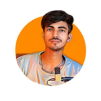
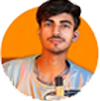
feature and fix: new animations and aayush pandey img profile fixed

diff --git a/src/index.css b/src/index.css
@@ -23,7 +23,6 @@
   border-radius: 3px;
 }
 
-
 ::-webkit-scrollbar-corner {
   background-color: #65cfa9;
 }
@@ -45,4 +44,56 @@
     position: relative;
     overflow: hidden;
   }
+}
+
+@keyframes move {
+  0%,
+  100% {
+    transform: translateY(0px) scale(1);
+  }
+  50% {
+    transform: translateY(300px) scale(0.8);
+  }
+}
+
+@keyframes rebote {
+  0%,
+  100% {
+    transform: translateY(0px) scale(1);
+  }
+  50% {
+    transform: translateY(30px) scale(0.8);
+  }
+}
+@keyframes rebote2 {
+  0%,
+  100% {
+    transform: translateY(0px) scale(1);
+  }
+  50% {
+    transform: translateY(30px) scale(0.8);
+  }
+}
+
+.green1 {
+  /* display: none; */
+  animation: move 15s linear infinite;
+}
+.green2 {
+  animation: rebote 15s linear infinite;
+  filter: drop-shadow(6px 6px 6px rgba(0, 0, 0, 0.108));
+}
+.green3 {
+  animation: rebote2 10s linear infinite;
+  filter: drop-shadow(6px 6px 6px rgba(0, 0, 0, 0.108));
+}
+
+.circle1,
+.circle2 {
+  animation: move 15s linear infinite;
+}
+
+.circle1_meet,
+.circle2_meet {
+  animation: move 15s linear infinite;
 }

diff --git a/src/components/meet/meet.css b/src/components/meet/meet.css
@@ -2,12 +2,15 @@
   width: 100%;
   padding: 5%;
   padding-top: 74px;
-  padding-bottom: 74px;
+  padding-bottom: 174px;
+  margin-bottom: -120px;
   /* background: red; */
   display: flex;
   justify-content: center;
   align-items: center;
   flex-direction: column;
+  position: relative;
+  overflow: hidden;
 }
 
 .contentCards {
@@ -25,6 +28,12 @@
   text-align: center;
   display: flex;
   padding: 3% 0%;
+  transition-duration: 0.2s;
+  cursor: pointer;
+}
+.card:hover {
+  transform: scale(1.05);
+  transition-duration: 0.2s;
 }
 .text1 {
   font-family: "Raleway";
@@ -59,4 +68,28 @@
   border-radius: 100%;
   color: white;
   padding: 2%;
+}
+
+.circle1_meet {
+  width: 400px;
+  height: 400px;
+  background: #4b83fbcc;
+  position: absolute;
+  border-radius: 100%;
+  right: -300px;
+  bottom: -150px;
+  filter: blur(90px);
+  z-index: -10;
+}
+
+.circle2_meet {
+  width: 400px;
+  height: 400px;
+  background: #4b83fbcc;
+  position: absolute;
+  border-radius: 100%;
+  top: -100px;
+  left: -300px;
+  filter: blur(90px);
+  z-index: -10;
 }

diff --git a/src/App.jsx b/src/App.jsx
@@ -22,7 +22,7 @@ function App() {
       <div className="bodyInterno">
         <div className="max-w-[940px] h-full">
           <GreenCircle
-            className="green1"
+            classText="green1"
             mT="-200px"
             mR=""
             mB=""
@@ -30,10 +30,11 @@ function App() {
             blur="blur(90px)"
             ancho="400px"
             alto="400px"
-            color="#65CFA9"
+            color="#4B83FBCC"
           />
           {/* bg-gradient-to-t from-[#65CFA9] to-[#FFFFFF99] */}
           <GreenCircle
+            classText="green2"
             mT="123.99px"
             mR=""
             mB=""
@@ -43,6 +44,7 @@ function App() {
             color="#65CFA9"
           />
           <GreenCircle
+            classText="green3"
             mT="88.54px"
             mR=""
             mB=""

diff --git a/src/components/lifeBetter/lifeBetter.css b/src/components/lifeBetter/lifeBetter.css
@@ -3,6 +3,8 @@
   width: 100%;
   /* background: red; */
   padding: 5%;
+  position: relative;
+  /* overflow: hidden; */
 }
 
 .left {
@@ -110,4 +112,28 @@
   font-weight: 400;
   line-height: 16.79px;
   color: #415674;
+}
+
+.circle1 {
+  width: 400px;
+  height: 400px;
+  background: #4b83fbcc;
+  position: absolute;
+  border-radius: 100%;
+  right: -300px;
+  margin-top: -150px;
+  filter: blur(90px);
+  z-index: -10;
+}
+
+.circle2 {
+  width: 400px;
+  height: 400px;
+  background: #4b83fbcc;
+  position: absolute;
+  border-radius: 100%;
+  left: -300px;
+  bottom: -100px;
+  filter: blur(90px);
+  z-index: -10;
 }

diff --git a/src/components/lifeBetter/LifeBetter.jsx b/src/components/lifeBetter/LifeBetter.jsx
@@ -4,10 +4,14 @@ import l1 from "../../assets/img/lifeBetter/lifeBetter1.png";
 import l2 from "../../assets/img/lifeBetter/lifeBetter2.png";
 import b1 from "../../assets/img/lifeBetter/badge1.png";
 import b2 from "../../assets/img/lifeBetter/badge2.png";
+import { GreenCircle } from "../GreenCircle";
 
 export const LifeBetter = () => {
   return (
     <div className="contentLife">
+      <div className="circle1"></div>
+      <div className="circle2"></div>
+
       <div className="left">
         <img className="img1" src={l1} alt={l1} srcset={l1} />
         <img className="img2" src={l2} alt={l2} srcset={l2} />

diff --git a/src/components/meet/Meet.jsx b/src/components/meet/Meet.jsx
@@ -12,7 +12,13 @@ import { Title } from "../title/Title";
 export const Meet = () => {
   return (
     <div className="contentMeet">
-      <Title text1={"Our Professionals"} text2={"Meet Our Professinoal Colleagues"}/>
+      <div className="circle1_meet"></div>
+      <div className="circle2_meet"></div>
+
+      <Title
+        text1={"Our Professionals"}
+        text2={"Meet Our Professinoal Colleagues"}
+      />
       <div className="contentCards">
         <Cards img={m1} text1={"Dr. Deepndra"} text2={"Advicer"} />
         <Cards img={m2} text1={"Kavi Chaturvedi"} text2={"Channel Manager"} />

diff --git a/src/components/header/header.css b/src/components/header/header.css
@@ -54,7 +54,8 @@ xl: Son para las pantallas muy grandes, que comienzan en 1280 px. 2xl: Este esti
 
 @media (max-width: 991px) {
   .navbar {
-    background: linear-gradient(to left, #ffffff, #beecdb);
+    /* background: linear-gradient(to left, #ffffff, #beecdb); */
+    background: transparent;
   }
   .navbar a {
     color: black;
@@ -79,7 +80,7 @@ xl: Son para las pantallas muy grandes, que comienzan en 1280 px. 2xl: Este esti
 }
 
 /* MOBILE 640px */
-@media (max-width: 724) {
+@media (max-width: 724px) {
   .navbar {
     background: linear-gradient(to left, #ffffff, #beecdb);
   }

diff --git a/src/components/GreenCircle.jsx b/src/components/GreenCircle.jsx
@@ -1,12 +1,23 @@
 import React from "react";
 
-export const GreenCircle = ({ ancho, alto, color, mT, mL, mB, mR, blur }) => {
+export const GreenCircle = ({
+  ancho,
+  alto,
+  color,
+  mT,
+  mL,
+  mB,
+  mR,
+  blur,
+  classText,
+}) => {
   //   return <div className={`w-[100px]` + "h-[100px] bg-red-400"}></div>;
   //   const ancho = "100px";
   //   const alto = "100px";
   //   console.log(ancho, alto);
   return (
     <div
+      className={classText}
       style={{
         borderRadius: "100%",
         width: ancho,

diff --git a/src/components/banners/banners.css b/src/components/banners/banners.css
@@ -9,3 +9,14 @@
   padding: 10%;
   padding-top: 40px;
 }
+.cardBanner {
+  transition-duration: 0.2s;
+  cursor: pointer;
+  /* border: 1px solid rgba(255, 255, 255, 0.149); */
+}
+.cardBanner:hover {
+  transform: scale(1.05);
+  transition-duration: 0.2s;
+  /* border: 1px solid rgba(128, 128, 128, 0.393); */
+  /* border-radius: 5px; */
+}

diff --git a/src/components/categories/categories.css b/src/components/categories/categories.css
@@ -19,6 +19,7 @@
   box-shadow: 0px 2.4873px 51.6116px rgba(101, 207, 169, 0.25);
   border-radius: 16.1675px;
   transition-duration: 0.3s;
+  background: rgba(255, 255, 255, 0.884);
 }
 .cardCategories:hover {
   transform: scale(1.05);
